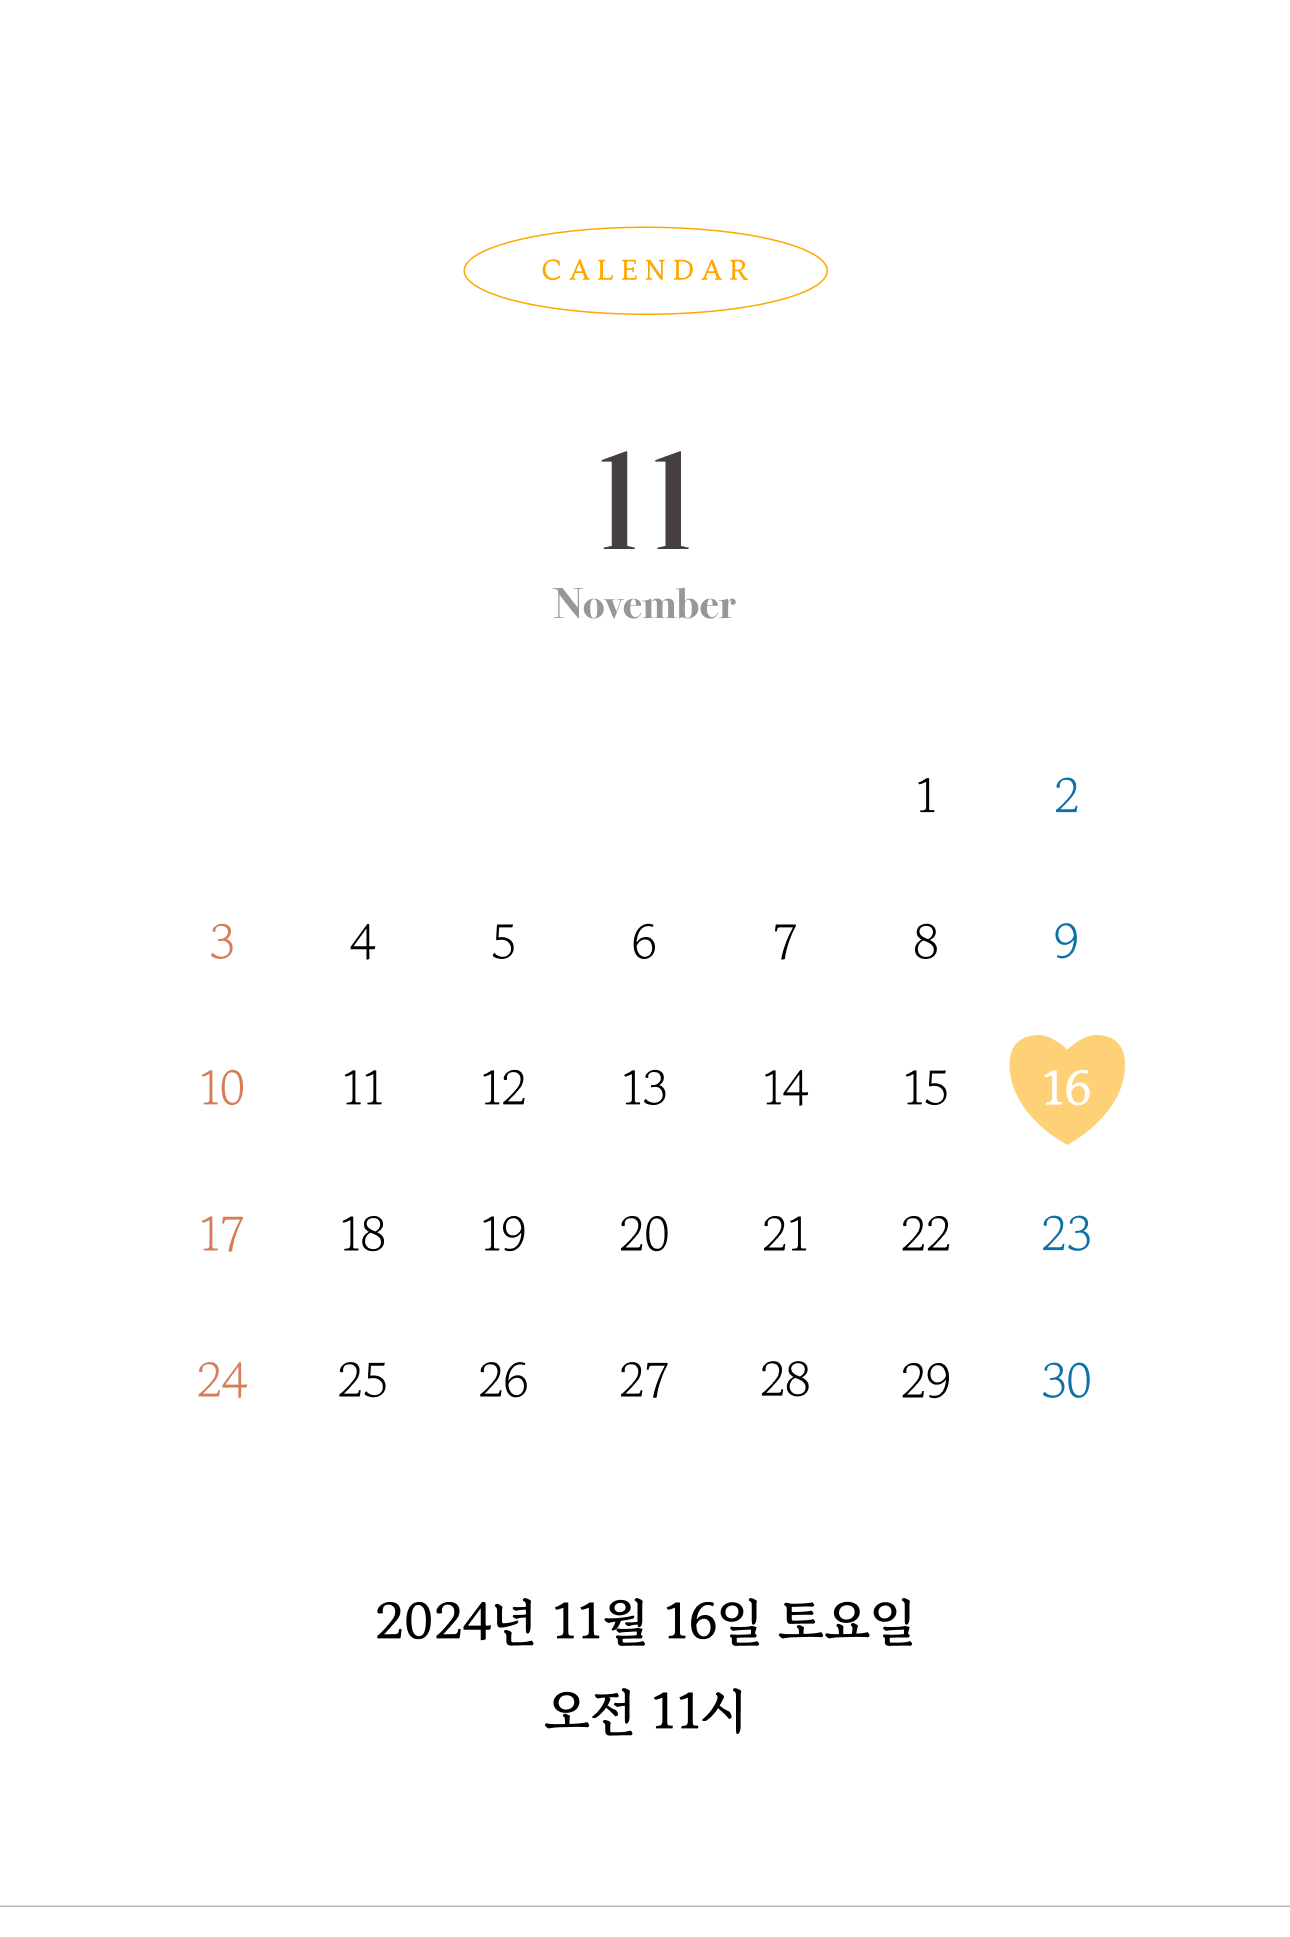
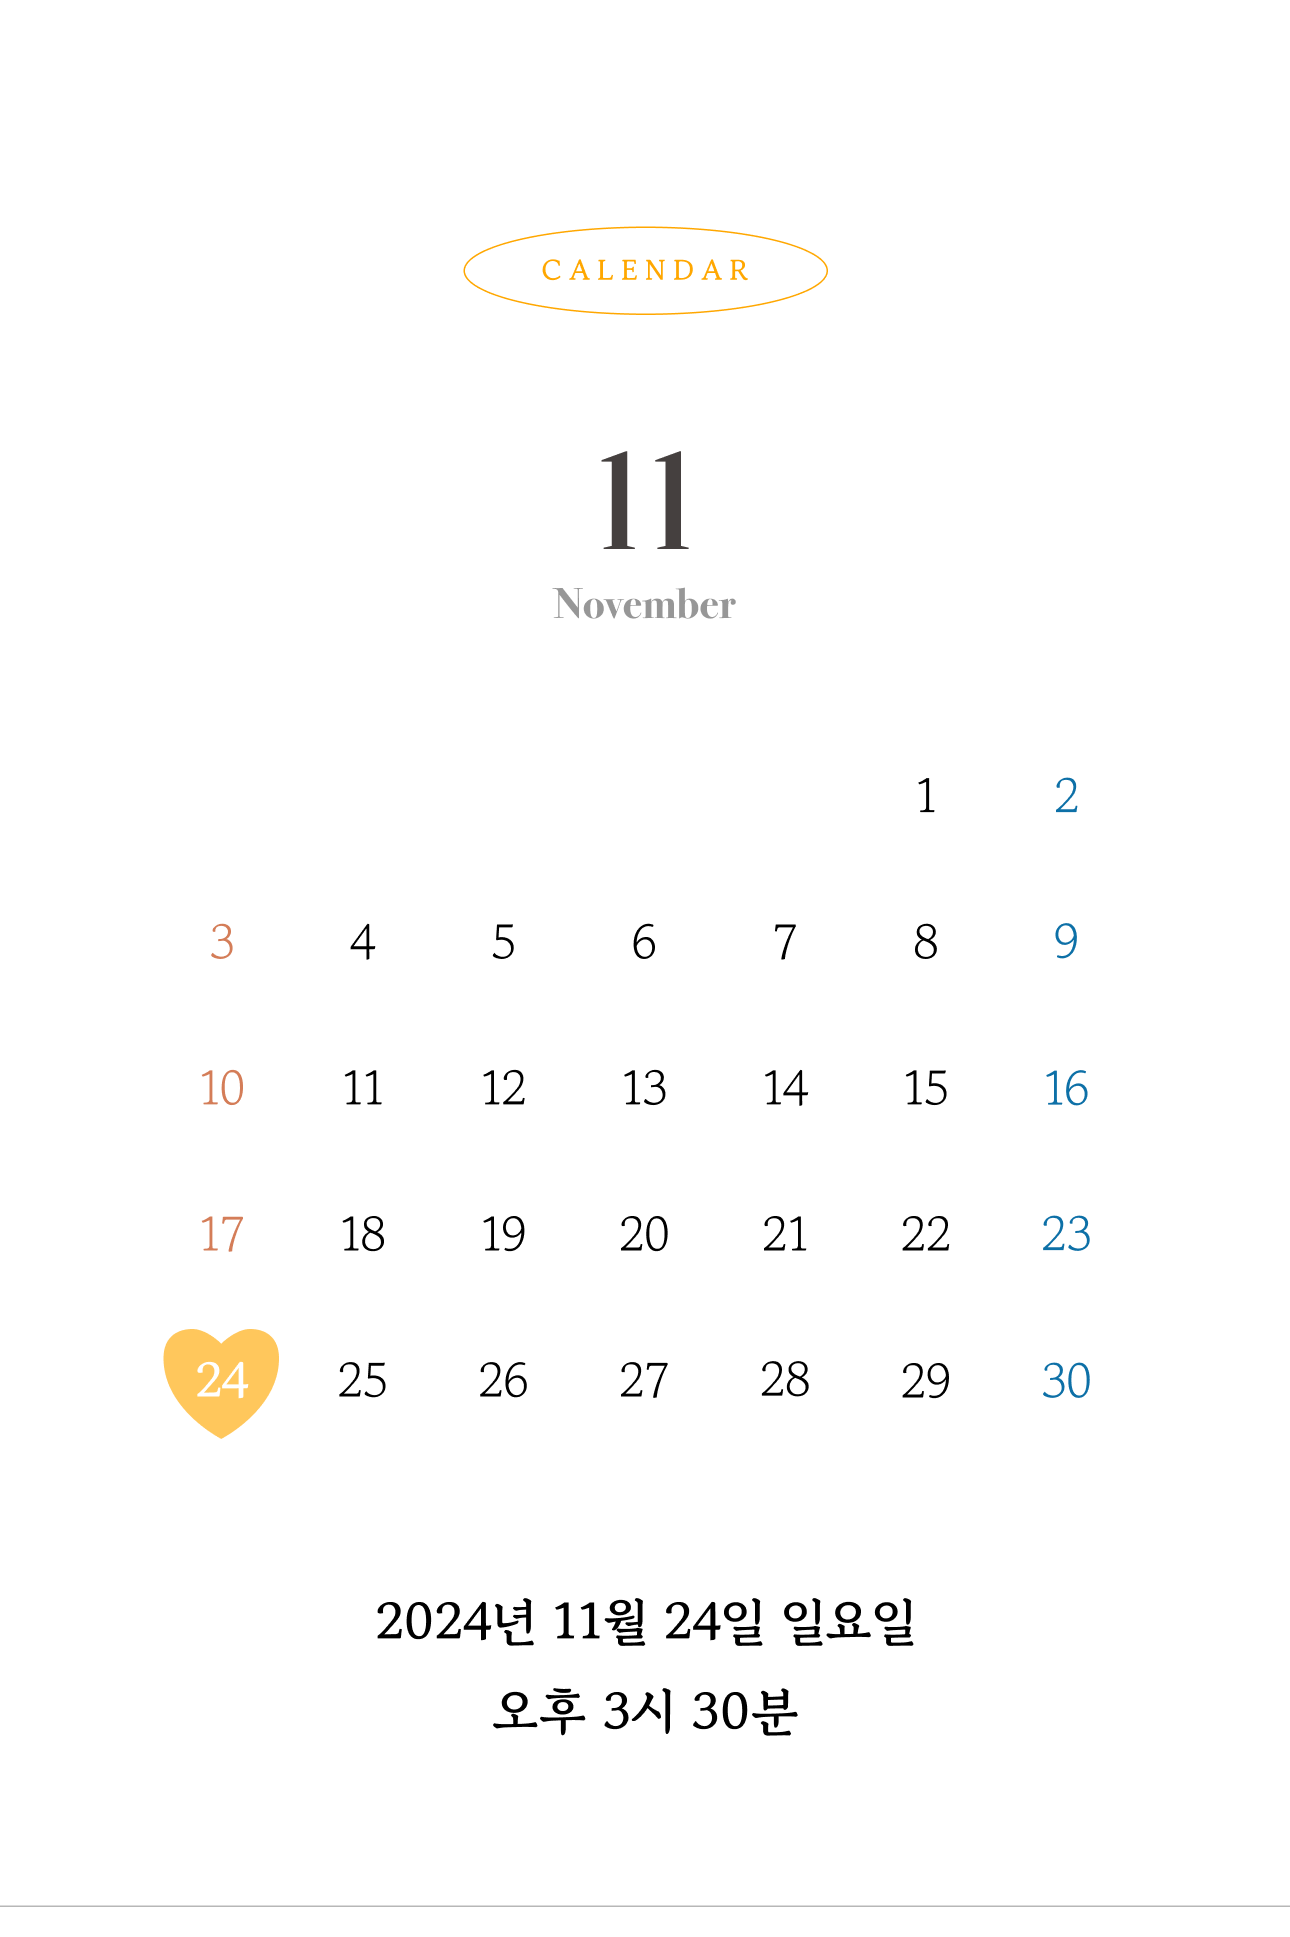
생성

diff --git a/index.html b/index.html
@@ -5,7 +5,7 @@
   <meta charset="utf-8" />
   <link rel="icon" href="/img/heart_icon.png" />
   <meta name="viewport" content="width=device-width" />
-  <title>김준영 ♥ 정유주의 결혼식에 초대합니다.</title>
+  <title>김현우 ♥ 정유주의 결혼식에 초대합니다.</title>
   <meta http-equiv="X-UA-Compatible" content="IE=edge, chrome=1" />
   <meta name="viewport"
     content="width=device-width,initial-scale=1.0,maximum-scale=1.0,minimum-scale=1.0,user-scalable=no,target-densitydpi=medium-dpi" />
@@ -14,10 +14,10 @@
   <meta name="description" content="결혼식에 초대합니다♡" />
   <link rel="canonical" href="https://mo25.luvle.co.kr" />
   <meta property="og:url" content="https://mo25.luvle.co.kr" />
-  <meta property="og:title" content="김준영 ♥ 정유주의 결혼식에 초대합니다." />
+  <meta property="og:title" content="김현우 ♥ 정유주의 결혼식에 초대합니다." />
   <meta property="og:description" content="결혼식에 초대합니다♡" />
   <meta property="og:image" content="https://i.imgur.com/tYuIfbQ.png" />
-  <meta property="og:site_name" content="김준영 ♥ 정유주의 결혼식에 초대합니다." />
+  <meta property="og:site_name" content="김현우 ♥ 정유주의 결혼식에 초대합니다." />
   <script src="https://cdn.tailwindcss.com"></script>
   <link rel="stylesheet" type="text/css" href="style.css" />
   <link href="https://webfontworld.github.io/yangheeryu/GowunBatang.css" rel="stylesheet" />
@@ -91,16 +91,16 @@
             <div id="weddingDesc">
               <div style="line-height: 40px;">
                 <p id="parentInfo">
-                  <span style="font-size: large">이인규 · 진기자</span>
+                  <span style="font-size: large">김재호 · 강인혜</span>
                   <span>
                     <span>의</span>
                     <span style="
                           font-size: large;
                           min-width: 3rem;
                           display: inline-block;
-                        ">차남</span>
+                        ">아들</span>
                   </span>
-                  <span style="font-size: large">김준영</span>
+                  <span style="font-size: large">김현우</span>
                   <span style="
                         font-size: large;
                         display: inline-block;
@@ -121,7 +121,7 @@
                   </script>
                 </p>
                 <p id="parentInfo">
-                  <span style="font-size: large">박상현 · 유미자</span>
+                  <span style="font-size: large">정현인 · 김정숙</span>
                   <span>
                     <span>의</span>
                     <span style="
@@ -257,21 +257,21 @@
                     text-align: center;
                     line-height: 1.5rem;
                   ">
-                <p>경기 수원시 영통구 봉영로 1612</p>
+                <p>서울특별시 강남구 테헤란로 406</p>
                 <p style="font-weight: 600; color: #000000">
-                  sy컨벤션
+                  샹제리제센터  A동, 르비르모어 2층
                 </p>
               </div>
               <div class="weddinghall-call-info">
                 <button id="weddingHallCallButton">
                   <img src="img/call.png" alt="전화" style="width: 10px; height: 10px" />
-                  <p id="weddingHallCallP">031 - 206 - 6660</p>
+                  <p id="weddingHallCallP">02 - 501 - 7000</p>
                 </button>
                 <script>
                   document
                     .getElementById("weddingHallCallButton")
                     .addEventListener("click", function () {
-                      var phoneNumber = "031-206-6660";
+                      var phoneNumber = "02-501-7000";
                       window.location.href = "tel:" + phoneNumber;
                     });
                 </script>
@@ -288,8 +288,8 @@
             var mapContainer = document.getElementById("map"), // 지도를 표시할 div
               mapOption = {
                 center: new kakao.maps.LatLng(
-                  37.254526983677714,
-                  127.07494298769757
+                  37.504387489211744,
+                  127.04994612492743
                 ), // 지도의 중심좌표
                 level: 3, // 지도의 확대 레벨
               };
@@ -309,8 +309,8 @@
 
             // 마커가 표시될 위치입니다
             var markerPosition = new kakao.maps.LatLng(
-              37.254526983677714,
-              127.07494298769757
+              37.504387489211744,
+              127.04994612492743
             );
 
             // 마커를 생성합니다
@@ -327,7 +327,7 @@
         <!-- map 길찾기 -->
         <div class="animate-on-scroll" id="MapIconDiv" style="background-color: #FFD177;">
           <div>
-            <a class="maplink" href="https://kko.to/O2hWer9dhL">
+            <a class="maplink" href="https://kko.to/KJy5HMofCZ">
               <div>
                 <button id="kakaoMapButton" type="button">
                   <!-- <img
@@ -381,33 +381,27 @@
           <div class="animate-on-scroll">
             <h5 id="accountNumberTitleInfo">마음 전하실 곳</h5>
             <button class="accordion relative">
-              <p id="centerText">신랑 측 계좌번호 및 혼주 연락처</p>
+              <p id="centerText">신랑 측 계좌번호</p>
               <div class="arrow"></div>
             </button>
             <div class="panel">
               <ul>
-                <li><strong>신랑 김준영 : </strong>농협은행 356-1480-5013-43</li>
+                <li><strong>신랑 김현우 : </strong>농협은행 356-1480-5013-43</li>
                 <li><strong>혼주 이인규 : </strong>농협은행 302-9470-9957-81</li>
                 <li><strong>혼주 진기자 : </strong>농협은행 352-1308-4208-03</li>
-                <li><strong>--------------------------------------------</li>
-
-                <li><strong>혼주 이인규 : </strong>010-9470-9957</li>
-                <li><strong>혼주 진기자 : </strong>010-3600-3241</li>
+              
 
               </ul>
             </div>
             <button class="accordion relative">
-              <p id="centerText">신부 측 계좌번호 및 혼주 연락처</p>
+              <p id="centerText">신부 측 계좌번호</p>
               <div class="arrow"></div>
             </button>
             <div class="panel">
               <ul>
                 <li><strong>신부 정유주 : </strong>카카오뱅크 3333021251920</li>
                 <li><strong>혼주 유미자 : </strong>신한은행 110-438-904116</li>
-                <li><strong>--------------------------------------------</li>
-                <li><strong>혼주 박상현 : </strong>010-3012-5688</li>
-                <li><strong>혼주 유미자 : </strong>010-6268-4994</li>
-
+              
 
                 <!-- <li>
                   <strong>신부 아버지</strong><br />농협 301819-52-029714

diff --git a/countdown.js b/countdown.js
@@ -1,7 +1,7 @@
 document.addEventListener("DOMContentLoaded", function () {
   function updateCountdown() {
     // 결혼 날짜 설정 (년, 월(0부터 시작), 일, 시, 분)
-    const weddingDate = new Date(2024, 10, 16, 11, 0); // 예시: 2024년 10월 12일
+    const weddingDate = new Date(2024, 10, 24, 16, 30); // 예시: 2024년 10월 12일
 
     const currentDate = new Date();
     const timeDifference = weddingDate - currentDate;

diff --git a/gallery.js b/gallery.js
@@ -46,7 +46,7 @@ window.onload = () => {
     Kakao.Share.sendDefault({
       objectType: "feed",
       content: {
-        title: "김준영 ♥ 박민주의 모바일 청첩장",
+        title: "김현우 ♥ 정유주의 모바일 청첩장",
         description: "결혼식에 초대합니다♡",
         imageUrl: "https://i.imgur.com/tYuIfbQ.png",
         imageWidth: 1200,
